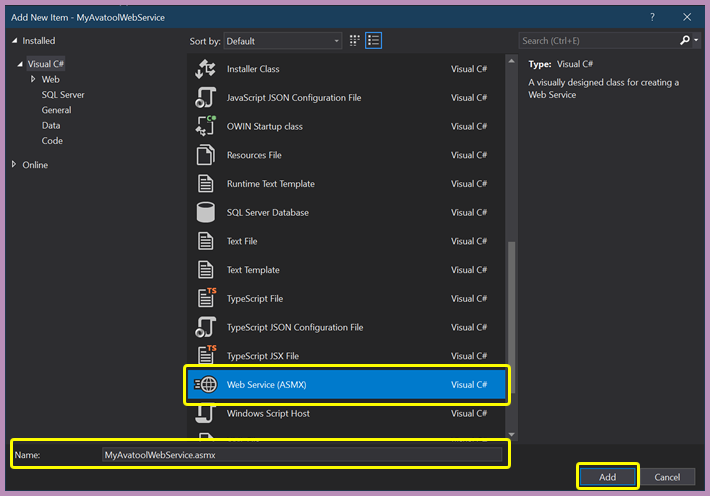
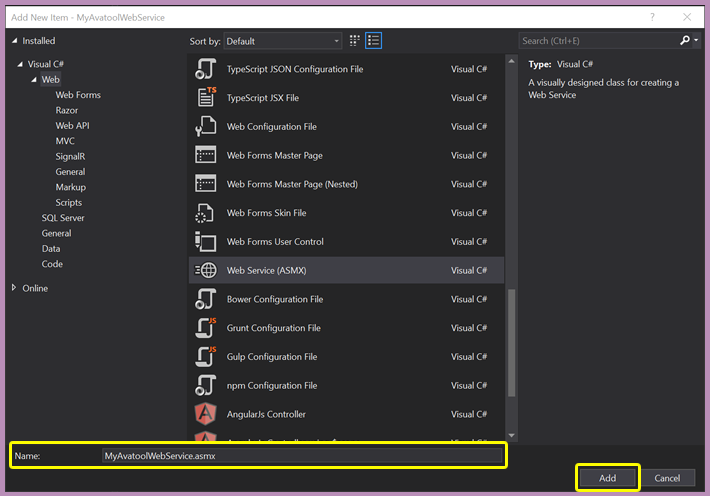
Documentation updates

diff --git a/doc/man/manual-custom-myavatar-web-services.md b/doc/man/manual-custom-myavatar-web-services.md
@@ -101,10 +101,9 @@ Once the project is created (it may take a few minutes), you will have a brand n
   A nice new, clean app!
   
 </h6>
-<br>
 
 # ADDING A NEW .ASMX WEB SERVICE TO THE PROJECT
-Since we created an empty project, there aren't any valid web services available. Let's create one.
+Since we created an empty project, there aren't any valid web services available, so we will need to create one.
 
 1. Right click the **Avatool-Web-Service** *project*
 2. Choose **Add** > **New Item...**
@@ -118,8 +117,8 @@ Since we created an empty project, there aren't any valid web services available
 </h6>
 <br>
 
-3. Choose **Visual C** > **Web** > **web Service (ASMX**)
-4. Name the Web Service **AvatoolWebService.asmx**
+3. Choose **Visual C#** > **Web** > **Web Service (ASMX**)
+4. Name the web service **MyAvatoolWebService.asmx**
 5. Click **Add**
 
 <h6 align="center">
